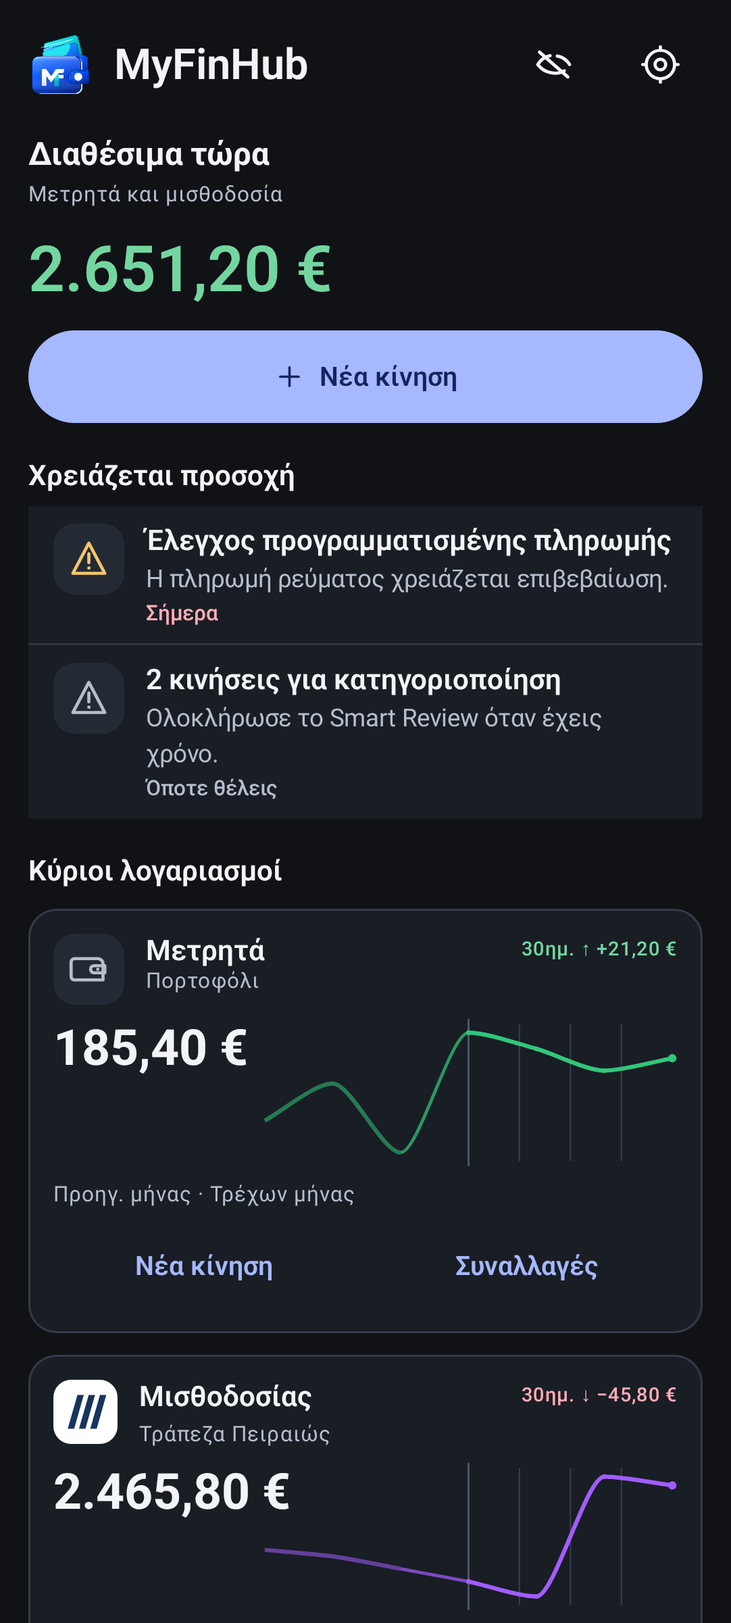
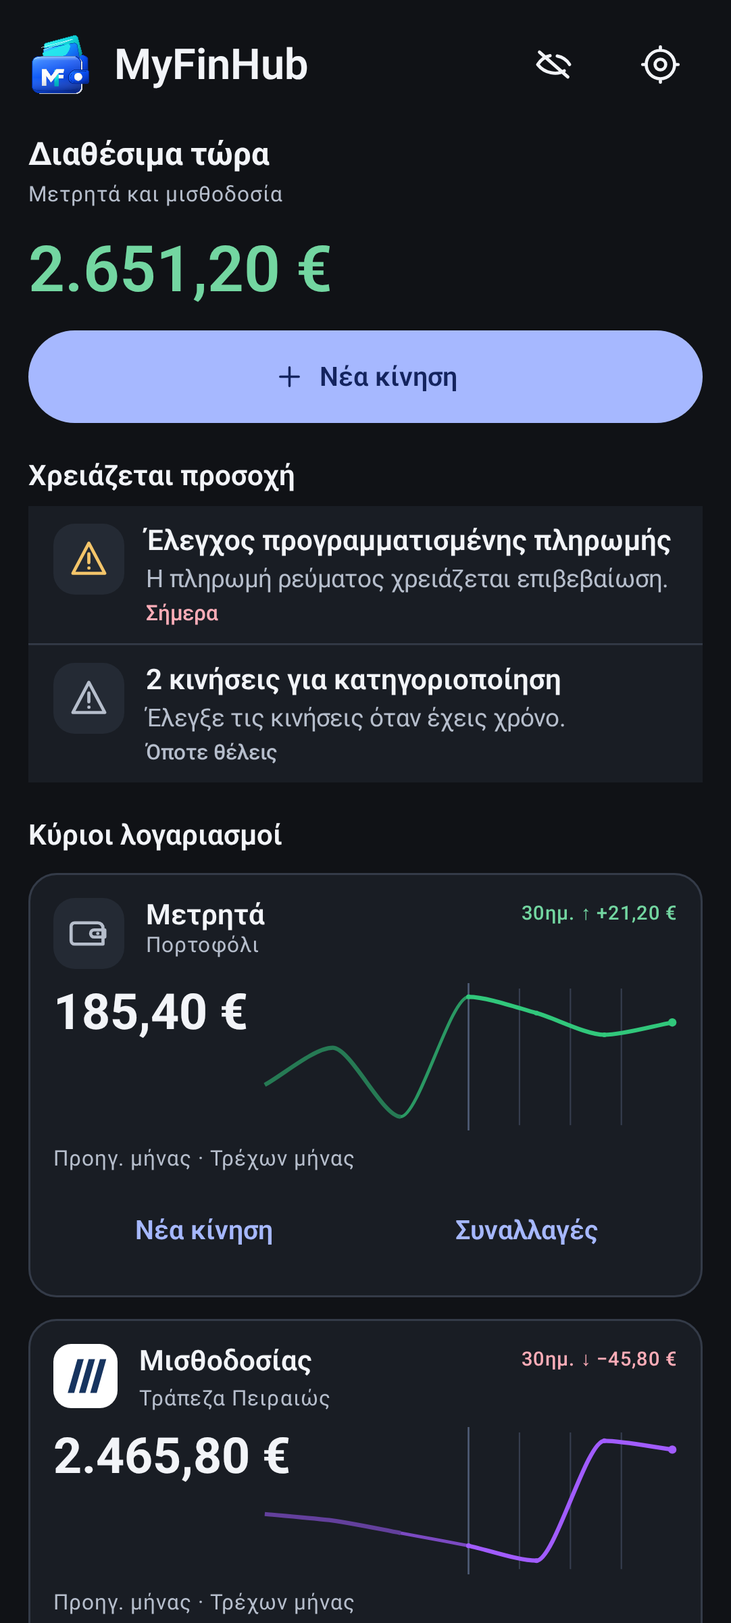
fix(ui): clarify amount masking and card terminology (#540)
* fix(ui): clarify amount masking and card terminology

* test(ui): align secure card navigation assertion with Greek copy

* fix(ui): adopt 18 approved official screenshot references

---------

diff --git a/app/src/androidTest/java/app/myfinhub/android/feature/utilities/MobileDeviceSettingsJourneyTest.kt b/app/src/androidTest/java/app/myfinhub/android/feature/utilities/MobileDeviceSettingsJourneyTest.kt
@@ -86,11 +86,14 @@ class MobileDeviceSettingsJourneyTest {
                     MobileDeviceSettingsScreen(onBack = {}, onLogout = {})
                 }
             }
+            compose.onNodeWithText("Η απόκρυψη καλύπτει ποσά, όχι γραφήματα ή την κατεύθυνση των μεταβολών.")
+                .performScrollTo().assertIsDisplayed()
             compose.onNodeWithText("Εμφάνιση ποσών")
                 .performScrollTo().performClick()
             compose.runOnIdle {
                 assertEquals(true, AmountVisibilityPreference.read(context))
             }
+            compose.onNodeWithText("Η απόκρυψη καλύπτει ποσά, όχι γραφήματα ή την κατεύθυνση των μεταβολών.").assertIsDisplayed()
             compose.onNodeWithText("Εμφάνιση ποσών").performClick()
             compose.runOnIdle {
                 assertEquals(false, AmountVisibilityPreference.read(context))

diff --git a/app/src/main/java/app/myfinhub/android/feature/money/CanonicalCardSecureDetailsScreen.kt b/app/src/main/java/app/myfinhub/android/feature/money/CanonicalCardSecureDetailsScreen.kt
@@ -181,7 +181,7 @@ fun CanonicalCardSecureDetailsScreen(
             MyFinHubSectionCard(modifier = Modifier.fillMaxWidth()) {
                 Column(verticalArrangement = Arrangement.spacedBy(MyFinHubSpacing.sm)) {
                     Text(
-                        "Ο αριθμός, η λήξη και το CVV αποθηκεύονται κρυπτογραφημένα στο κοινό card vault και συγχρονίζονται στις εγκεκριμένες εφαρμογές.",
+                        "Ο αριθμός, η λήξη και το CVV αποθηκεύονται κρυπτογραφημένα στον κοινό ασφαλή χώρο καρτών και συγχρονίζονται στις εγκεκριμένες εφαρμογές.",
                         style = MaterialTheme.typography.bodyMedium,
                     )
                     if (editorOpen && vaultReadAuthorized) {

diff --git a/app/src/androidTest/java/app/myfinhub/android/TopLevelParityTest.kt b/app/src/androidTest/java/app/myfinhub/android/TopLevelParityTest.kt
@@ -63,7 +63,7 @@ class TopLevelParityTest {
         composeRule.onNodeWithTag("card_secure_details")
             .assertIsDisplayed().performClick()
         composeRule.onNodeWithText(
-            "Ο αριθμός, η λήξη και το CVV αποθηκεύονται κρυπτογραφημένα στο κοινό card vault και συγχρονίζονται στις εγκεκριμένες εφαρμογές.",
+            "Ο αριθμός, η λήξη και το CVV αποθηκεύονται κρυπτογραφημένα στον κοινό ασφαλή χώρο καρτών και συγχρονίζονται στις εγκεκριμένες εφαρμογές.",
         ).assertIsDisplayed()
         assertTrue(runCatching {
             composeRule.onNodeWithText("Αποκάλυψη στοιχείων").fetchSemanticsNode()

diff --git a/app/src/main/java/app/myfinhub/android/feature/home/HomeUiState.kt b/app/src/main/java/app/myfinhub/android/feature/home/HomeUiState.kt
@@ -210,7 +210,7 @@ fun syntheticHomeUiState(): HomeUiState = HomeUiState(
         HomeAttentionItem(
             id = "transaction-review",
             title = "2 κινήσεις για κατηγοριοποίηση",
-            reason = "Ολοκλήρωσε το Smart Review όταν έχεις χρόνο.",
+            reason = "Έλεγξε τις κινήσεις όταν έχεις χρόνο.",
             dueLabel = "Όποτε θέλεις",
             tone = HomeAttentionTone.INFO,
             action = HomeAttentionAction.ACTIVITY,

diff --git a/app/src/main/java/app/myfinhub/android/feature/utilities/MobileDeviceSettingsScreen.kt b/app/src/main/java/app/myfinhub/android/feature/utilities/MobileDeviceSettingsScreen.kt
@@ -124,7 +124,7 @@ fun MobileDeviceSettingsScreen(
                         amountsVisible = visible
                         AmountVisibilityPreference.write(context, visible)
                     },
-                    supporting = "Απόκρυψη ή εμφάνιση στα οικονομικά στοιχεία.",
+                    supporting = "Η απόκρυψη καλύπτει ποσά, όχι γραφήματα ή την κατεύθυνση των μεταβολών.",
                 )
             }
 

diff --git a/STATUS.md b/STATUS.md
@@ -11,7 +11,7 @@
 Issue #155 — **Reconcile Android finance contracts and restore web-parity Home and cards**
 State: `in_progress`
 
-2026-11-24: Android PR #532 bounded GET-only DEVICE_REGISTRY_UNAVAILABLE retry passed six exact-head checks and merged develop 9284d9a08dfaf5590c8e6319945fd91cefc093d9. Web #663 monotonic device-session timestamp fix deployed production (main db2c0a600d34961d547dd817790881c6e543f05a); #664 forward-port merged Web develop e05fb3fe58f8a89566b616db056578fbd451f39e. Owner reported finance working on Android and Web; historical 2026-11-12 purchase associations remain unresolved without finance mutation. Protected rc21/10020 published from #531 head 90761631ea0a6b2638ef466d5407278008d7317d with all six exact-head source gates and successful publisher #45431863501. Owner reports successful install, sync, biometrics, card privacy and basic journeys, but Play Protect warning; classification, signer independently on phone, data/queue continuity and full physical acceptance remain unverified. No screenshot requested per owner. Comparison with rc18 (owner Play Protect pass) identifies no new manifest, Gradle or installer/verifier regression. PR #533 refreshed read-only S24 preflight to recognize published rc21 exact version pair and retain fail-closed unknown/spoofed build checks; six exact-head gates passed on 30138a7, squash merged into develop 2fb7a90, both post-merge Android/tracking checks passed. Historical source gate #531 closed without merge. PR #534 extended the read-only published APK audit and passed all seven exact-head gates at 55c81dd, including 11 standalone tests and actual artifact inspection run #45461000918. Squash merged develop afc137b138cb59098b784aec5a9fc8f7a8894d07; post-merge Android and tracking both passed. rc16/17/18/20/21 matched pinned hashes, ZIP integrity and enrolled signer; rc18/20/21 same six permissions, and rc20→rc21 nine changed CRC/size members with no additions/removals. No Play Protect classification or data continuity inferred. Owner directs autonomous continuation without repeated confirmation; independent work may proceed while physical/external evidence remains unverified. Owner-requested 2026-11-24 UI/UX re-audit (#536) inspected 24 committed synthetic Compose references and current production routes; confirmed Quick Entry pending-submit exit guard, Home delta text contrast, secure-card large-font row, Cards generic transaction context and hidden/revealed fixture mismatch. PR #537 Quick Entry pending-submit Back/discard protection and focused Compose tests passed all six exact-head checks at 4ac982e after scoping an existing dynamic provider selection assertion to its selected field; squash merged develop c4a18fce1f8b3538f767d7f3f6750e7f43ccc7bc. Second checkpoint implements Home delta text contrast, expanded secure-card fields, genuine hidden/revealed/offline/loading/failure screenshot states, and contrast/raw-copy/privacy regressions. PR #538 adopted the 15 reviewed official references and three public Home mirrors, passed all six checks at 5d8f09975ee0a92d0980fd2fedea88733aefbb62 and squash merged into develop 2e207a823fa4eb5427d2180c4529f51c3c80edb9. The next #536 checkpoint gives the selected credit card contextual purchase and payment actions, requires explicit account selection for debit expense across finance refreshes and blocks ambiguous or archived card actions. Initial PR #539 head 35c2a72 passed Android CI, tracking and emulator shard 0. The screenshot check identified three intended WalletCards changes. The only shard 1 test failure exposed archive status incorrectly blocking restore. Corrected active and restore eligibility, added an assertion for active/archive identity collision and adopted the three reviewed official references from run #45591064232 artifact #15011541188. Final hosted validation pending. D7 6/8, W6.4 5/6 (23/24), audit 7/8 reviewed, 0/8 release-cleared; D8 separate. Historical evidence remains in prior commits and PRs.
+2026-11-24: Android PR #532 bounded GET-only DEVICE_REGISTRY_UNAVAILABLE retry passed six exact-head checks and merged develop 9284d9a08dfaf5590c8e6319945fd91cefc093d9. Web #663 monotonic device-session timestamp fix deployed production (main db2c0a600d34961d547dd817790881c6e543f05a); #664 forward-port merged Web develop e05fb3fe58f8a89566b616db056578fbd451f39e. Owner reported finance working on Android and Web; historical 2026-11-12 purchase associations remain unresolved without finance mutation. Protected rc21/10020 published from #531 head 90761631ea0a6b2638ef466d5407278008d7317d with all six exact-head source gates and successful publisher #45431863501. Owner reports successful install, sync, biometrics, card privacy and basic journeys, but Play Protect warning; classification, signer independently on phone, data/queue continuity and full physical acceptance remain unverified. No screenshot requested per owner. Comparison with rc18 (owner Play Protect pass) identifies no new manifest, Gradle or installer/verifier regression. PR #533 refreshed read-only S24 preflight to recognize published rc21 exact version pair and retain fail-closed unknown/spoofed build checks; six exact-head gates passed on 30138a7, squash merged into develop 2fb7a90, both post-merge Android/tracking checks passed. Historical source gate #531 closed without merge. PR #534 extended the read-only published APK audit and passed all seven exact-head gates at 55c81dd, including 11 standalone tests and actual artifact inspection run #45461000918. Squash merged develop afc137b138cb59098b784aec5a9fc8f7a8894d07; post-merge Android and tracking both passed. rc16/17/18/20/21 matched pinned hashes, ZIP integrity and enrolled signer; rc18/20/21 same six permissions, and rc20→rc21 nine changed CRC/size members with no additions/removals. No Play Protect classification or data continuity inferred. Owner directs autonomous continuation without repeated confirmation; independent work may proceed while physical/external evidence remains unverified. Owner-requested 2026-11-24 UI/UX re-audit (#536) inspected 24 committed synthetic Compose references and current production routes; confirmed Quick Entry pending-submit exit guard, Home delta text contrast, secure-card large-font row, Cards generic transaction context and hidden/revealed fixture mismatch. PR #537 Quick Entry pending-submit Back/discard protection and focused Compose tests passed all six exact-head checks at 4ac982e after scoping an existing dynamic provider selection assertion to its selected field; squash merged develop c4a18fce1f8b3538f767d7f3f6750e7f43ccc7bc. Second checkpoint implements Home delta text contrast, expanded secure-card fields, genuine hidden/revealed/offline/loading/failure screenshot states, and contrast/raw-copy/privacy regressions. PR #538 adopted the 15 reviewed official references and three public Home mirrors, passed all six checks at 5d8f09975ee0a92d0980fd2fedea88733aefbb62 and squash merged into develop 2e207a823fa4eb5427d2180c4529f51c3c80edb9. The next #536 checkpoint gives the selected credit card contextual purchase and payment actions, requires explicit account selection for debit expense across finance refreshes and blocks ambiguous or archived card actions. Initial PR #539 head 35c2a72 passed Android CI, tracking and emulator shard 0. The screenshot check identified three intended WalletCards changes. The only shard 1 test failure exposed archive status incorrectly blocking restore. Corrected active and restore eligibility, added an assertion for active/archive identity collision and adopted the three reviewed official references from run #45591064232 artifact #15011541188. Final PR #539 head 75d7d07e98d5ee88c201d0c8b5ef54d5245fafa3 passed all six required checks after the screenshot job was retried following Maven Central HTTP 429; squash merged develop 42fb7e7c1ba5f26edc0d6b3b58712b9294bdc42e, with both post-merge Android CI and Project Tracking successful. Findings 01–05 of #536 are integrated. Final terminology/privacy-description batch clarifies amount masking in active mobile Settings without concealing Home history curves, translates the secure card description and corrects the synthetic Home attention fixture; adds a Settings accessibility/visibility regression. Initial PR #540 head daa5dfd passed Android CI and Project Tracking. Screenshot rendering and emulator shard 0 were blocked by Maven Central HTTP 429; shard 1 exposed an outdated secure-card copy expectation in TopLevelParityTest. Updated the exact expectation without relaxing the reachability assertion. PR #540 head dea999d passed Android CI, Project Tracking and S24 emulator shard 1; shard 0 blocked by Maven Central HTTP 429 before tests. Official renderer identified 18 intended reference changes, reviewed from run #45625792589 artifact #15028955187 and approved in PR comment #7166441082. All 18 exact reviewed Git blob hashes and six public mirrors adopted by a one-time CI transfer; mirror integrity checked. Final exact-head CI and integration pending. D7 6/8, W6.4 5/6 (23/24), audit 7/8 reviewed, 0/8 release-cleared; D8 separate. Historical evidence remains in prior commits and PRs.
 
 ## Current production candidate
 
@@ -21,7 +21,7 @@ Protected publisher #45431863501 succeeded; source PR #531 all six exact-head ga
 
 ## Next
 
-1. Require all six checks on the final PR #539 head, clean reviews and a green develop baseline before integrating the #536 Cards correction.
+1. Require all six exact-head CI checks on PR #540 after adopting the reviewed official references; merge only with green checks and clean base/reviews, then resolve #536.
 2. D7/W6.4 physical acceptance remains blocked: Play Protect warning unresolved, independent encrypted data/pending queue continuity unverified. Historical November 12 purchase associations remain unresolved; no speculative production finance changes or new APK.
 
 ## Non-negotiable constraints
@@ -63,7 +63,7 @@ Evidence-backed release milestones, not percent of code written.
 | D8 Production-signed release and deployment | pending |
 
 Current: D7
-Next: Require all six checks on the final PR #539 head, clean reviews and a green develop baseline before integrating the #536 Cards correction. D7/W6.4 physical acceptance remains blocked: Play Protect warning unresolved, independent encrypted data/pending queue continuity unverified. Historical November 12 purchase associations remain unresolved; no speculative production finance changes or new APK.
+Next: Require all six exact-head CI checks on PR #540 after adopting the reviewed official references; merge only with green checks and clean base/reviews, then resolve #536. D7/W6.4 physical acceptance remains blocked: Play Protect warning unresolved, independent encrypted data/pending queue continuity unverified. Historical November 12 purchase associations remain unresolved; no speculative production finance changes or new APK.
 
 
 ## Active Web parity progress
@@ -72,10 +72,10 @@ Next: Require all six checks on the final PR #539 head, clean reviews and a gree
 
 Evidence-backed current progress, separate from historical September redesign.
 
-Issue #155, PR #539, branch android/d7-cards-contextual-entry-20261125
-Current W6.4: PR #538 passed all six checks at 5d8f099 and squash merged into develop 2e207a8. PR #539 Cards contextual entry, restore eligibility correction and three reviewed official references from artifact #15011541188. Final commit verification and integration pending.
+Issue #155, PR #540, branch android/d7-privacy-terminology-20261125
+Current W6.4: PR #539 integrated into develop 42fb7e7 with green post-merge CI. PR #540 terminology/privacy-description correction and 18 reviewed official reference PNGs plus six mirrors adopted; exact-head validation and merge pending.
 Plan docs/WEB_ANDROID_RECONCILIATION_PLAN.md
-Next Require all six checks on the final PR #539 head, clean reviews and a green develop baseline before integrating the #536 Cards correction. D7/W6.4 physical acceptance remains blocked: Play Protect warning unresolved, independent encrypted data/pending queue continuity unverified. Historical November 12 purchase associations remain unresolved; no speculative production finance changes or new APK.
+Next Require all six exact-head CI checks on PR #540 after adopting the reviewed official references; merge only with green checks and clean base/reviews, then resolve #536. D7/W6.4 physical acceptance remains blocked: Play Protect warning unresolved, independent encrypted data/pending queue continuity unverified. Historical November 12 purchase associations remain unresolved; no speculative production finance changes or new APK.
 
 | Implementation | Completed | Outstanding |
 |---|---|---|

diff --git a/docs/CURRENT_HANDOFF.md b/docs/CURRENT_HANDOFF.md
@@ -25,11 +25,11 @@ This file exists so a new chat/agent can continue correctly without relying on c
 
 ## Why implementation is open
 
-2026-11-24: Android PR #532 bounded GET-only DEVICE_REGISTRY_UNAVAILABLE retry passed six exact-head checks and merged develop 9284d9a08dfaf5590c8e6319945fd91cefc093d9. Web #663 monotonic device-session timestamp fix deployed production (main db2c0a600d34961d547dd817790881c6e543f05a); #664 forward-port merged Web develop e05fb3fe58f8a89566b616db056578fbd451f39e. Owner reported finance working on Android and Web; historical 2026-11-12 purchase associations remain unresolved without finance mutation. Protected rc21/10020 published from #531 head 90761631ea0a6b2638ef466d5407278008d7317d with all six exact-head source gates and successful publisher #45431863501. Owner reports successful install, sync, biometrics, card privacy and basic journeys, but Play Protect warning; classification, signer independently on phone, data/queue continuity and full physical acceptance remain unverified. No screenshot requested per owner. Comparison with rc18 (owner Play Protect pass) identifies no new manifest, Gradle or installer/verifier regression. PR #533 refreshed read-only S24 preflight to recognize published rc21 exact version pair and retain fail-closed unknown/spoofed build checks; six exact-head gates passed on 30138a7, squash merged into develop 2fb7a90, both post-merge Android/tracking checks passed. Historical source gate #531 closed without merge. PR #534 extended the read-only published APK audit and passed all seven exact-head gates at 55c81dd, including 11 standalone tests and actual artifact inspection run #45461000918. Squash merged develop afc137b138cb59098b784aec5a9fc8f7a8894d07; post-merge Android and tracking both passed. rc16/17/18/20/21 matched pinned hashes, ZIP integrity and enrolled signer; rc18/20/21 same six permissions, and rc20→rc21 nine changed CRC/size members with no additions/removals. No Play Protect classification or data continuity inferred. Owner directs autonomous continuation without repeated confirmation; independent work may proceed while physical/external evidence remains unverified. Owner-requested 2026-11-24 UI/UX re-audit (#536) inspected 24 committed synthetic Compose references and current production routes; confirmed Quick Entry pending-submit exit guard, Home delta text contrast, secure-card large-font row, Cards generic transaction context and hidden/revealed fixture mismatch. PR #537 Quick Entry pending-submit Back/discard protection and focused Compose tests passed all six exact-head checks at 4ac982e after scoping an existing dynamic provider selection assertion to its selected field; squash merged develop c4a18fce1f8b3538f767d7f3f6750e7f43ccc7bc. Second checkpoint implements Home delta text contrast, expanded secure-card fields, genuine hidden/revealed/offline/loading/failure screenshot states, and contrast/raw-copy/privacy regressions. PR #538 adopted the 15 reviewed official references and three public Home mirrors, passed all six checks at 5d8f09975ee0a92d0980fd2fedea88733aefbb62 and squash merged into develop 2e207a823fa4eb5427d2180c4529f51c3c80edb9. The next #536 checkpoint gives the selected credit card contextual purchase and payment actions, requires explicit account selection for debit expense across finance refreshes and blocks ambiguous or archived card actions. Initial PR #539 head 35c2a72 passed Android CI, tracking and emulator shard 0. The screenshot check identified three intended WalletCards changes. The only shard 1 test failure exposed archive status incorrectly blocking restore. Corrected active and restore eligibility, added an assertion for active/archive identity collision and adopted the three reviewed official references from run #45591064232 artifact #15011541188. Final hosted validation pending. D7 6/8, W6.4 5/6 (23/24), audit 7/8 reviewed, 0/8 release-cleared; D8 separate. Historical evidence remains in prior commits and PRs.
+2026-11-24: Android PR #532 bounded GET-only DEVICE_REGISTRY_UNAVAILABLE retry passed six exact-head checks and merged develop 9284d9a08dfaf5590c8e6319945fd91cefc093d9. Web #663 monotonic device-session timestamp fix deployed production (main db2c0a600d34961d547dd817790881c6e543f05a); #664 forward-port merged Web develop e05fb3fe58f8a89566b616db056578fbd451f39e. Owner reported finance working on Android and Web; historical 2026-11-12 purchase associations remain unresolved without finance mutation. Protected rc21/10020 published from #531 head 90761631ea0a6b2638ef466d5407278008d7317d with all six exact-head source gates and successful publisher #45431863501. Owner reports successful install, sync, biometrics, card privacy and basic journeys, but Play Protect warning; classification, signer independently on phone, data/queue continuity and full physical acceptance remain unverified. No screenshot requested per owner. Comparison with rc18 (owner Play Protect pass) identifies no new manifest, Gradle or installer/verifier regression. PR #533 refreshed read-only S24 preflight to recognize published rc21 exact version pair and retain fail-closed unknown/spoofed build checks; six exact-head gates passed on 30138a7, squash merged into develop 2fb7a90, both post-merge Android/tracking checks passed. Historical source gate #531 closed without merge. PR #534 extended the read-only published APK audit and passed all seven exact-head gates at 55c81dd, including 11 standalone tests and actual artifact inspection run #45461000918. Squash merged develop afc137b138cb59098b784aec5a9fc8f7a8894d07; post-merge Android and tracking both passed. rc16/17/18/20/21 matched pinned hashes, ZIP integrity and enrolled signer; rc18/20/21 same six permissions, and rc20→rc21 nine changed CRC/size members with no additions/removals. No Play Protect classification or data continuity inferred. Owner directs autonomous continuation without repeated confirmation; independent work may proceed while physical/external evidence remains unverified. Owner-requested 2026-11-24 UI/UX re-audit (#536) inspected 24 committed synthetic Compose references and current production routes; confirmed Quick Entry pending-submit exit guard, Home delta text contrast, secure-card large-font row, Cards generic transaction context and hidden/revealed fixture mismatch. PR #537 Quick Entry pending-submit Back/discard protection and focused Compose tests passed all six exact-head checks at 4ac982e after scoping an existing dynamic provider selection assertion to its selected field; squash merged develop c4a18fce1f8b3538f767d7f3f6750e7f43ccc7bc. Second checkpoint implements Home delta text contrast, expanded secure-card fields, genuine hidden/revealed/offline/loading/failure screenshot states, and contrast/raw-copy/privacy regressions. PR #538 adopted the 15 reviewed official references and three public Home mirrors, passed all six checks at 5d8f09975ee0a92d0980fd2fedea88733aefbb62 and squash merged into develop 2e207a823fa4eb5427d2180c4529f51c3c80edb9. The next #536 checkpoint gives the selected credit card contextual purchase and payment actions, requires explicit account selection for debit expense across finance refreshes and blocks ambiguous or archived card actions. Initial PR #539 head 35c2a72 passed Android CI, tracking and emulator shard 0. The screenshot check identified three intended WalletCards changes. The only shard 1 test failure exposed archive status incorrectly blocking restore. Corrected active and restore eligibility, added an assertion for active/archive identity collision and adopted the three reviewed official references from run #45591064232 artifact #15011541188. Final PR #539 head 75d7d07e98d5ee88c201d0c8b5ef54d5245fafa3 passed all six required checks after the screenshot job was retried following Maven Central HTTP 429; squash merged develop 42fb7e7c1ba5f26edc0d6b3b58712b9294bdc42e, with both post-merge Android CI and Project Tracking successful. Findings 01–05 of #536 are integrated. Final terminology/privacy-description batch clarifies amount masking in active mobile Settings without concealing Home history curves, translates the secure card description and corrects the synthetic Home attention fixture; adds a Settings accessibility/visibility regression. Initial PR #540 head daa5dfd passed Android CI and Project Tracking. Screenshot rendering and emulator shard 0 were blocked by Maven Central HTTP 429; shard 1 exposed an outdated secure-card copy expectation in TopLevelParityTest. Updated the exact expectation without relaxing the reachability assertion. PR #540 head dea999d passed Android CI, Project Tracking and S24 emulator shard 1; shard 0 blocked by Maven Central HTTP 429 before tests. Official renderer identified 18 intended reference changes, reviewed from run #45625792589 artifact #15028955187 and approved in PR comment #7166441082. All 18 exact reviewed Git blob hashes and six public mirrors adopted by a one-time CI transfer; mirror integrity checked. Final exact-head CI and integration pending. D7 6/8, W6.4 5/6 (23/24), audit 7/8 reviewed, 0/8 release-cleared; D8 separate. Historical evidence remains in prior commits and PRs.
 
 ## Immediate work
 
-- Require all six checks on the final PR #539 head, clean reviews and a green develop baseline before integrating the #536 Cards correction.
+- Require all six exact-head CI checks on PR #540 after adopting the reviewed official references; merge only with green checks and clean base/reviews, then resolve #536.
 - D7/W6.4 physical acceptance remains blocked: Play Protect warning unresolved, independent encrypted data/pending queue continuity unverified. Historical November 12 purchase associations remain unresolved; no speculative production finance changes or new APK.
 
 ## Constraints

diff --git a/TODO.md b/TODO.md
@@ -5,7 +5,7 @@ Active tracker: issue #155 — **Reconcile Android finance contracts and restore
 
 ## Open
 
-- [ ] Require all six checks on the final PR #539 head, clean reviews and a green develop baseline before integrating the #536 Cards correction.
+- [ ] Require all six exact-head CI checks on PR #540 after adopting the reviewed official references; merge only with green checks and clean base/reviews, then resolve #536.
 - [ ] D7/W6.4 physical acceptance remains blocked: Play Protect warning unresolved, independent encrypted data/pending queue continuity unverified. Historical November 12 purchase associations remain unresolved; no speculative production finance changes or new APK.
 
 ## Completed foundations
@@ -73,7 +73,7 @@ Evidence-backed release milestones, not percent of code written.
 | D8 Production-signed release and deployment | pending |
 
 Current: D7
-Next: Require all six checks on the final PR #539 head, clean reviews and a green develop baseline before integrating the #536 Cards correction. D7/W6.4 physical acceptance remains blocked: Play Protect warning unresolved, independent encrypted data/pending queue continuity unverified. Historical November 12 purchase associations remain unresolved; no speculative production finance changes or new APK.
+Next: Require all six exact-head CI checks on PR #540 after adopting the reviewed official references; merge only with green checks and clean base/reviews, then resolve #536. D7/W6.4 physical acceptance remains blocked: Play Protect warning unresolved, independent encrypted data/pending queue continuity unverified. Historical November 12 purchase associations remain unresolved; no speculative production finance changes or new APK.
 
 
 ## Active Web parity progress
@@ -82,10 +82,10 @@ Next: Require all six checks on the final PR #539 head, clean reviews and a gree
 
 Evidence-backed current progress, separate from historical September redesign.
 
-Issue #155, PR #539, branch android/d7-cards-contextual-entry-20261125
-Current W6.4: PR #538 passed all six checks at 5d8f099 and squash merged into develop 2e207a8. PR #539 Cards contextual entry, restore eligibility correction and three reviewed official references from artifact #15011541188. Final commit verification and integration pending.
+Issue #155, PR #540, branch android/d7-privacy-terminology-20261125
+Current W6.4: PR #539 integrated into develop 42fb7e7 with green post-merge CI. PR #540 terminology/privacy-description correction and 18 reviewed official reference PNGs plus six mirrors adopted; exact-head validation and merge pending.
 Plan docs/WEB_ANDROID_RECONCILIATION_PLAN.md
-Next Require all six checks on the final PR #539 head, clean reviews and a green develop baseline before integrating the #536 Cards correction. D7/W6.4 physical acceptance remains blocked: Play Protect warning unresolved, independent encrypted data/pending queue continuity unverified. Historical November 12 purchase associations remain unresolved; no speculative production finance changes or new APK.
+Next Require all six exact-head CI checks on PR #540 after adopting the reviewed official references; merge only with green checks and clean base/reviews, then resolve #536. D7/W6.4 physical acceptance remains blocked: Play Protect warning unresolved, independent encrypted data/pending queue continuity unverified. Historical November 12 purchase associations remain unresolved; no speculative production finance changes or new APK.
 
 | Implementation | Completed | Outstanding |
 |---|---|---|
